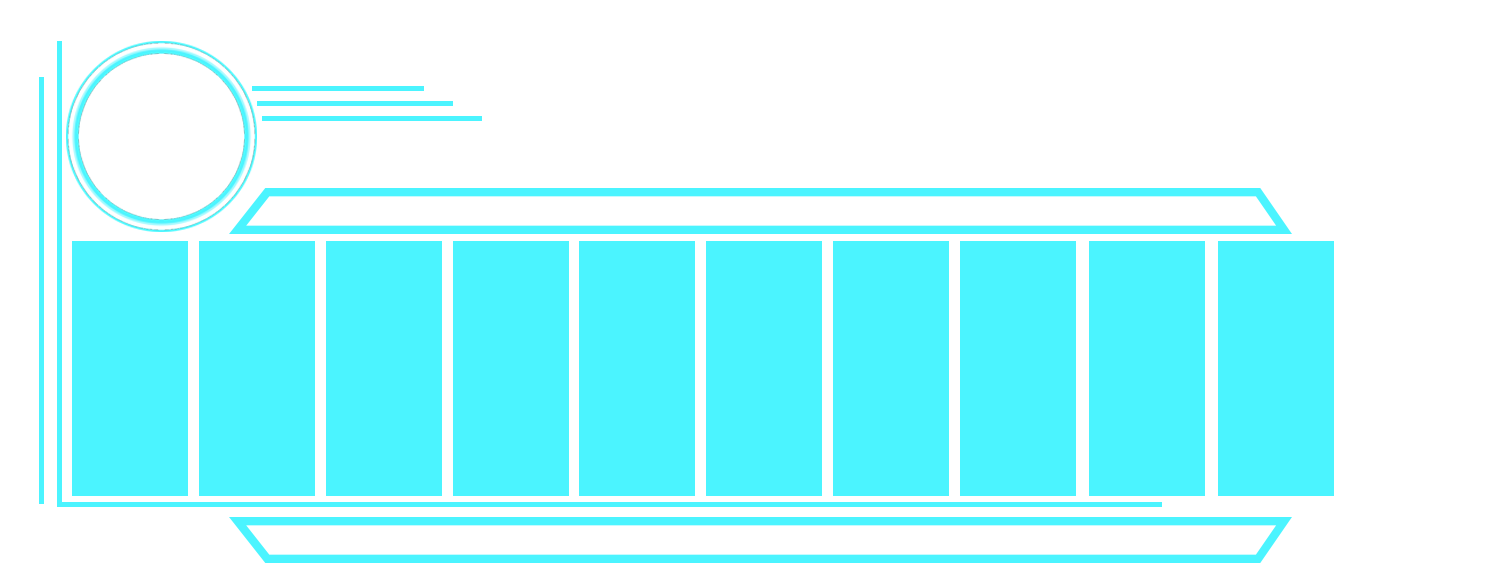
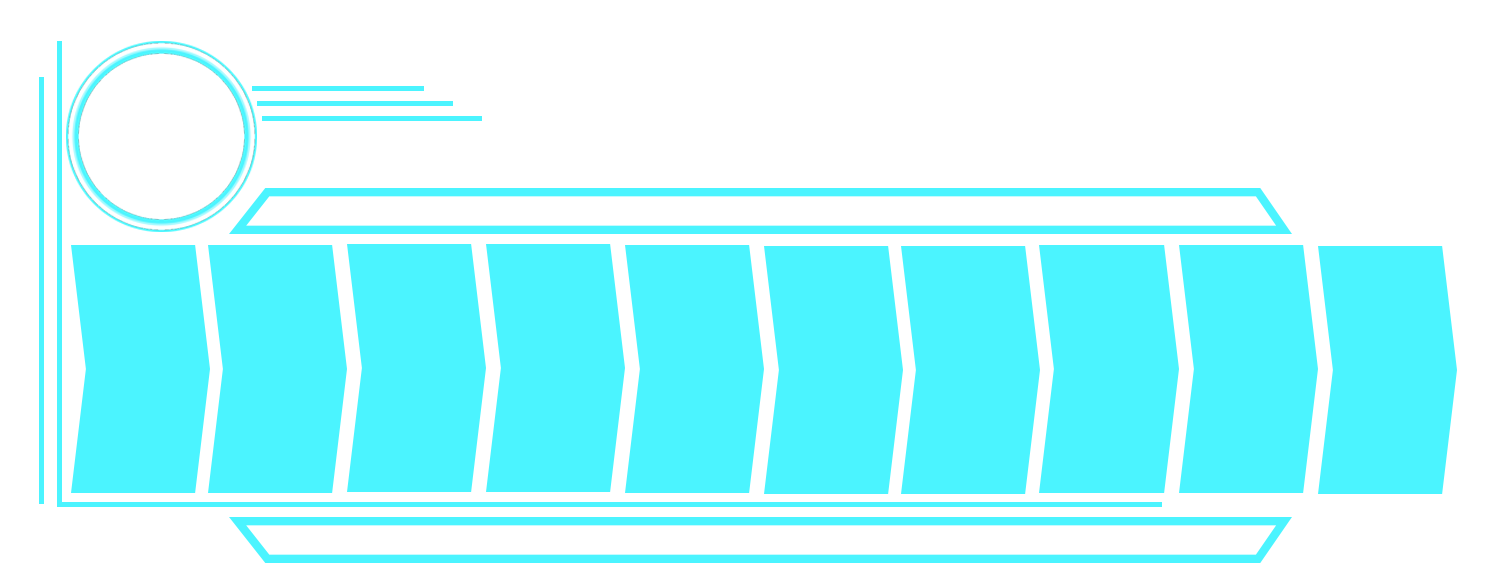
Added new action points bar and fixed ui text not updating

Changed region(s): [[0.0307, 0.4034, 0.9813, 0.869], [0.0307, 0.4966, 0.0613, 0.7759]]

diff --git a/CAPSTN1_V2.0/Assets/Scripts/UI/MainUI.cs b/CAPSTN1_V2.0/Assets/Scripts/UI/MainUI.cs
@@ -57,10 +57,12 @@ public class MainUI : MonoBehaviour
         {
         underlay.SetActive(false);
         }
-		turnManager.EndTurnEvent.AddListener(UpdateTheUI);
+		turnManager.EndTurnEvent.AddListener(UpdateUiText);
+		eventManager.ResolvedEvent.AddListener (UpdateUiText);
+		eventManager.IgnoredEvent.AddListener (UpdateUiText);
     }
 
-    void UpdateTheUI()
+    void UpdateUiText()
     {
         WaterAmnt.text 	= resManager.water.ToString();
         PowerAmnt.text 	= resManager.power.ToString();

diff --git a/CAPSTN1_V2.0/Assets/Scripts/TurnSystem/TurnManager.cs b/CAPSTN1_V2.0/Assets/Scripts/TurnSystem/TurnManager.cs
@@ -54,11 +54,11 @@ public class TurnManager : MonoBehaviour {
         {
             aqManager = AQManager.instance;
         }
-		AdvanceTurn();
 		EndTurnEvent.AddListener(resManager.UpdateResources);
 		EndTurnEvent.AddListener(AdvanceTurn);
 		EndTurnEvent.AddListener(eventManager.UpdateEvents);
 		EndTurnEvent.AddListener(regionManager.UpdateRegion);
+		EndTurnEvent.Invoke ();
 		resManager.GetResourceSum();
 		
 		victory = true;

diff --git a/CAPSTN1_V2.0/Assets/Scripts/ResourceSystem/ResourceManager.cs b/CAPSTN1_V2.0/Assets/Scripts/ResourceSystem/ResourceManager.cs
@@ -131,7 +131,6 @@ public class ResourceManager : MonoBehaviour {
 		waterSum 		= 0;
 		foodSum 		= 0;
 		powerSum 		= 0;
-		actionPointsSum = 0;
 		foreach (var region in regManager.regionList)
         {
           switch (region.GetComponent<RegionBase>().regionType)
